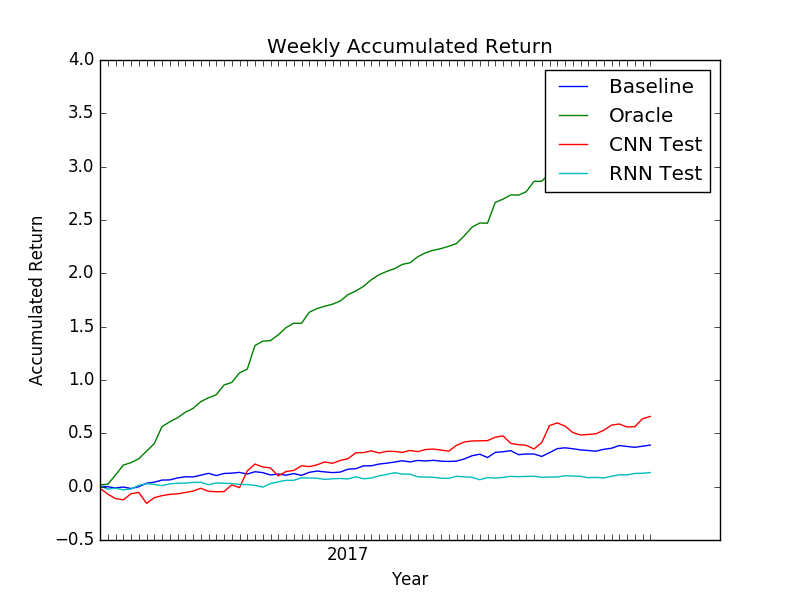
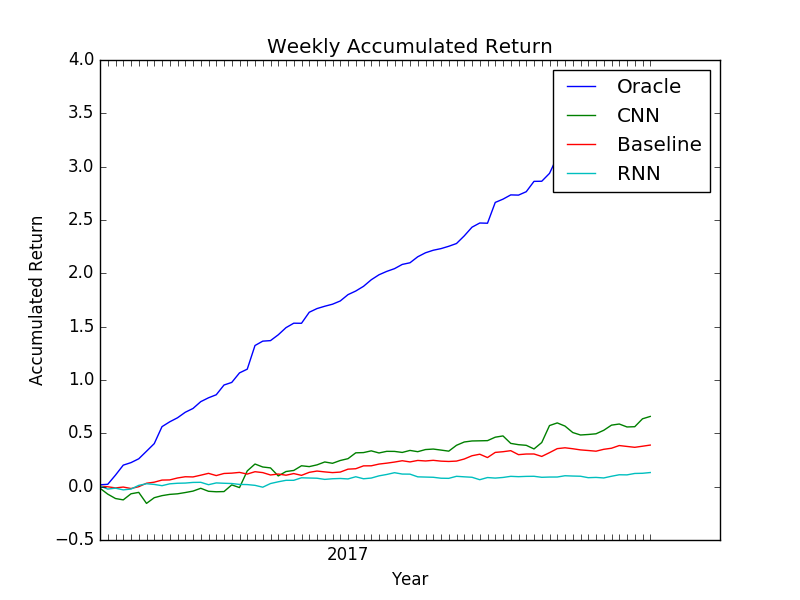
define plot and eval as class

diff --git a/utils/plotAndEval.py b/utils/plotAndEval.py
@@ -1,0 +1,98 @@
+from __future__ import print_function
+import math
+import matplotlib.pyplot as plt
+import numpy as np
+
+def accum(Re):
+		result = []
+		result.append(Re[0])
+		for idx in xrange(1, len(Re)):
+			cur = result[-1] + Re[idx]
+			result.append(cur)
+		return result
+
+# calculate total return and sharp ration
+def totalReturn(Re):
+	result = 1
+	for re in Re:
+		result *= (1+re)		
+	return result
+
+def sharp_ratio(Re):
+	Re = np.array(Re)
+	return np.mean(Re)/np.std(Re)
+
+class plotEval:
+	def __init__(self, date, startYear):
+		self.date = date
+		self.startYear = startYear # an integer like 2015
+		self.returns = {} # a dictionary mapping each model's label to its return vector
+
+	# Re should be a vector not shorter than Date. If Re is longer than date,
+	# it will be automatically alinged to Date in terms of the last entry
+	# label shoud be a string (e.g., 'cnn') 
+	def addReturn(self, Re, label):
+		self.returns[label] = Re[len(Re) - len(self.date):]
+
+
+	def generatePlot(self):
+		# Find the right place to put the year labels '20xx' 
+		year = self.startYear + 1
+		year_idx = {}
+		for idx, date in enumerate(self.date):
+			if year <= 2017:
+				if int(date[0][0:4]) == year:
+					year_idx[str(year)] = idx
+					year += 1
+			else:
+				break
+
+		dateLabel = ['' for i in xrange(len(self.date))]
+		for year in year_idx.keys():
+			dateLabel[year_idx[year]] = year
+		x = xrange(len(self.date))
+		# Do the plotting
+		# Plot weekly return
+		legend_1 = []
+		for label in self.returns.keys():
+			plt.plot(x,self.returns[label],'-')
+			legend_1.append(label)
+
+		plt.xticks(x, dateLabel)
+		plt.title('Weekly Return')
+		plt.legend(legend_1)
+		plt.xlabel('Year')
+		plt.ylabel('Return')
+		plt.savefig('results/Figures/Weekly_Re')
+		plt.show()
+
+		# plot accumulated return
+		legend_2 = []
+		for label in self.returns.keys():
+			accumReturn = accum(self.returns[label])
+			plt.plot(x,accumReturn,'-')
+			legend_2.append(label)
+
+		plt.xticks(x, dateLabel)
+		plt.title('Weekly Accumulated Return')
+		plt.legend(legend_2)
+		plt.xlabel('Year')
+		plt.ylabel('Accumulated Return')
+		plt.savefig('results/Figures/Weekly_Re_Accum')
+		plt.show()
+
+	
+
+	def eval(self):
+		for label in self.returns.keys():
+			print('Model: {0} \n total return: {1} \n sharpe ratio: {2}'
+				.format(label, totalReturn(self.returns[label]), sharp_ratio(self.returns[label])))
+
+
+
+
+
+
+
+
+

diff --git a/generatePlots.py b/generatePlots.py
@@ -4,8 +4,7 @@ import oracle as oa
 import CNNportforlio as cnn
 import math
 import numpy as np
-from utils import getPlots as gp
-from utils import modelEval as me
+from utils import plotAndEval as pe
 
 
 Re_ep, D, M= ep.main()
@@ -23,13 +22,16 @@ Date_cnn_test = [('2016-05-25', '2016-06-01'), ('2016-06-01', '2016-06-08'), ('2
 # adjust off-set:
 # Baseline omits the last day in both cnn and oracle
 Re_oa = Re_oa[:-1]
-#Re_cnn = Re_cnn[:-1]
 # Re_cnn_test should be shortest
 Re_ep = Re_ep[len(Re_ep)-len(Re_cnn_test):]
 Re_oa = Re_oa[len(Re_oa)-len(Re_cnn_test):]
 Re_rnn_test = Re_rnn_test[len(Re_rnn_test)-len(Re_cnn_test):]
-#Re_cnn = Re_cnn[len(Re_cnn)-len(Re_cnn_test):]
 
-gp.plot(Re_ep, Re_oa, Re_rnn_test, Re_cnn_test, Date_cnn_test, 2016)
-me.evaluateModel(Re_ep, Re_oa, Re_rnn_test, Re_cnn_test)
 
+pe = pe.plotEval(Date_cnn_test, 2016)
+pe.addReturn(Re_ep, 'Baseline')
+pe.addReturn(Re_oa, 'Oracle')
+pe.addReturn(Re_cnn_test, 'CNN')
+pe.addReturn(Re_rnn_test,'RNN')
+pe.generatePlot()
+pe.eval()
